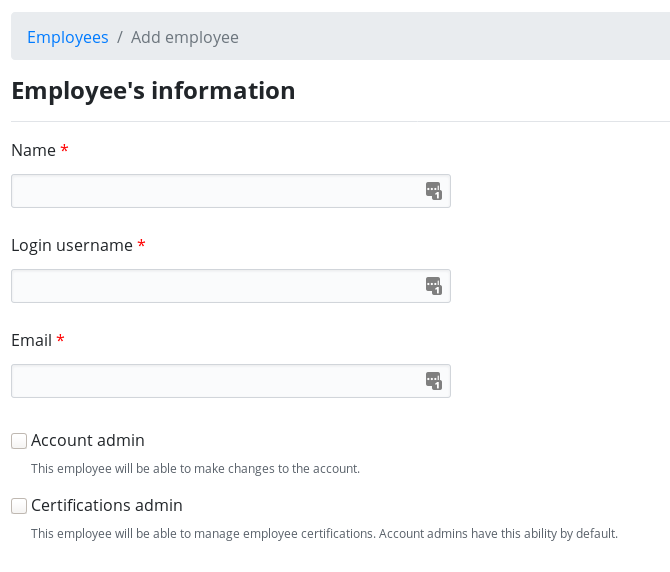
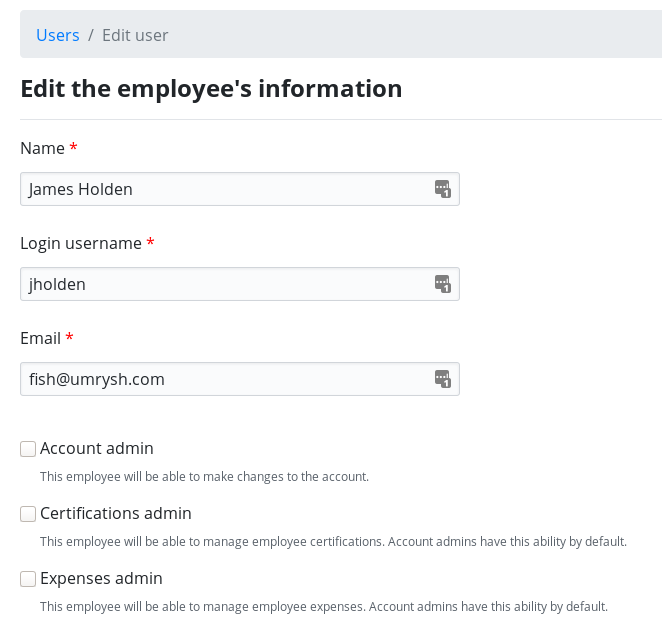
expenses

diff --git a/content/docs/expenses.md b/content/docs/expenses.md
@@ -5,4 +5,133 @@ type: docs
 
 # Expenses
 
-Coming soon.....
+With the expenses module enabled your staff will be able to upload their expenses into Work Tyme from anywhere in the world and your admins and expense admins (see [user types]({{< relref "/docs/user_types.md" >}}) for more information) will be able to instantaneously review and download expense reports. No more bundles of receipts being dropped off on the accountant's desk two weeks after the cut-off date.
+
+## Enable/Disable expense tracking
+
+Expense tracking is disabled by default. To enable or disable expense tracking visit the [company settings]({{< relref "/docs/company_settings.md" >}}) page and adjust the setting.
+
+## Managing company cards
+
+The first step in setting up your expense tracking module is adding in the company's credit cards (or any other type of cards) into your Work Tyme account and assigning them to the individuals who will be using them. This way when an employee is entering an expense they can assign the expense to the list of cards that have been assigned to them.
+
+To manage your company cards you must be an admin or expense admin. Click on the menu option titled "Administration" and then "Company cards".
+
+![Company cards page](/docs/img/company_cards_page.png)
+
+To add a new company card click on the button titled "Add company card" and enter in a description. You can enter anything but we suggest just using the last four digits of the credit card when possible.
+
+
+## Add an expense
+
+There are two ways to add an expense; either by using the [mobile app]({{< relref "/docs/app_expenses.md" >}}) or via the web portal. To see the steps when using the mobile app click [here]({{< relref "/docs/app_expenses.md" >}}). What follows are the steps to add an expense from the web portal.
+
+To add an expense with the web portal first click on the menu item called "Expenses". At the top left of the page you will find a green button called "Add Expense". Click on this button to be taken to the add expense screen.
+
+![Add expense](/docs/img/add_expense.png)
+
+The fields will be slightly different depending on if your account is an Expense Admin (see [user types]({{< relref "/docs/user_types.md" >}}) for more information).
+
+* **Approval Status:** _This field is only shown if you are an Expense admin. It allows you to change the current status of the expense from "new" or "locked"_
+* **Name:** _If you are an Expense Admin you will be able to select any employee in your company. If you are not an Expense Admin this will be locked to your own name_
+* **Card:** _Select from the list of cards that are assigned to you. If you are an Expense Admin you will be able to select any card in the company. This is the card that the expense has been placed. All employees have an option called "Personal Card" for expenses they will need to be reimbursed for_
+* **Type of expense:** _Select from a list of expense types to better classify the expense. This list is not configurable. If you require an option added to the list please [let us know](https://worktyme.ca/#contact)_
+* **Department:** _Select the company [department]({{< relref "/docs/departments.md" >}}) to which this expense was incurred_
+* **Division:** _Select the company [division]({{< relref "/docs/divisions.md" >}}) to which this expense was incurred_
+* **Subdivision:** _Select the company [subdivision]({{< relref "/docs/divisions.md" >}}) to which this expense was incurred_
+
+![Add expense](/docs/img/add_expense_page1.png)
+
+* **Currency:** _Select either "CA" for Canada or "US" for United States._
+* **Date:** _Select the date the expense was incurred_
+* **Supplier:** _Type in the name of the supplier for the purchased product/service_
+* **Description:** _Add a short description about the expense_
+* **Sub total:** _You must either enter a sub-total or a Total for the expense_
+* **Tip:** _If a tip was paid on the expense enter it here_
+* **Taxes:** _Enter any taxes incurred_
+* **Total:** _You must either enter a sub-total or a Total for the expense_
+* **Attach a file:** _Click the entry box to open a file selector window and select a PDF copy of the receipt._
+
+![Add expense](/docs/img/add_expense_page2.png)
+
+Lastly, click on the button titled "Save expense" to save the expense into Work Tyme.
+
+## View expenses
+
+To view expenses with the web portal first click on the menu item called "Expenses". You will be shown a page with a table listing all currently unprocessed expenses. If you are an Expense admin (see [user types]({{< relref "/docs/user_types.md" >}}) for more information) you will see all the expenses in the entire company. If you are not an Expense Admin you will instead be shown just your own uploaded expenses.
+
+![View expense](/docs/img/view_expense_page1.png)
+
+To view expenses that have already been exported by an Expense Admin click on the checkbox titled "Show locked entries" underneath the bottom right corner of the table. Locked entries will be highlighted in red.
+
+## Edit uploaded expenses
+
+To edit an expense with the web portal first click on the menu item called "Expenses". Find the expense in the table by either paging through the table or using the search box. If the expense has already been exported by an Expense Admin you will need to check the box below the right hand side of the table titled "Show locked entries". If you are not an Expense Admin you will only be able to edit unlocked expenses.
+
+To open the expense for editing click on the underlined date in it's row in the table.
+
+![Edit expense](/docs/img/view_expense_page1.png)
+
+The fields will be slightly different depending on if your account is an Expense Admin (see [user types]({{< relref "/docs/user_types.md" >}}) for more information).
+
+* **Approval Status:** _This field is only shown if you are an Expense admin. It allows you to change the current status of the expense from "new" or "locked"_
+* **Last edited by:** _This field is only shown if you are an Expense admin. It shows the name of the last Expense Admin who made a change to this expense_
+* **Editor notes:** _This field is only shown if you are an Expense admin. It allows Expense Admins to leave notes as to what they had to modify the last time they edited the expense_
+* **Name:** _If you are an Expense Admin you will be able to select any employee in your company. If you are not an Expense Admin this will be locked to your own name_
+* **Card:** _Select from the list of cards that are assigned to you. If you are an Expense Admin you will be able to select any card in the company. This is the card that the expense has been placed. All employees have an option called "Personal Card" for expenses they will need to be reimbursed for_
+* **Type of expense:** _Select from a list of expense types to better classify the expense. This list is not configurable. If you require an option added to the list please [let us know](https://worktyme.ca/#contact)_
+* **Department:** _Select the company [department]({{< relref "/docs/departments.md" >}}) to which this expense was incurred_
+* **Division:** _Select the company [division]({{< relref "/docs/divisions.md" >}}) to which this expense was incurred_
+
+![Edit expense](/docs/img/edit_expense_page1.png)
+
+* **Subdivision:** _Select the company [subdivision]({{< relref "/docs/divisions.md" >}}) to which this expense was incurred_
+* **Currency:** _Select either "CA" for Canada or "US" for United States._
+* **Date:** _Select the date the expense was incurred_
+* **Supplier:** _Type in the name of the supplier for the purchased product/service_
+* **Description:** _Add a short description about the expense_
+* **Sub total:** _You must either enter a sub-total or a Total for the expense_
+* **Tip:** _If a tip was paid on the expense enter it here_
+* **Taxes:** _Enter any taxes incurred_
+* **Total:** _You must either enter a sub-total or a Total for the expense_
+
+![Edit expense](/docs/img/edit_expense_page2.png)
+
+* **Replace uploaded file:** _Click the entry box to open a file selector window and select a PDF copy of the receipt. The uploaded document will replace any previously stored documents attached to this expense_
+
+![Edit expense](/docs/img/edit_expense_page3.png)
+
+Lastly, click on the button titled "Save expense" to save the expense into Work Tyme.
+
+## Download expense reports
+
+In order to download expense reports you must either be an admin or an expense admin (see [user types]({{< relref "/docs/user_types.md" >}}) for more information). When you view the expenses page as one of these two types of users there will be a reports section located directly below the expenses table.
+
+![Download expenses](/docs/img/download_expenses.png)
+
+There are a couple options you can select when generation your report:
+
+* **Lock on export:** _If you wish to lock the expenses from being edited by non-admins after you generate this report._
+* **Divisions report:** _Rather then have the downloaded excel files be split based on the company card you instead would like the files split by company divisions. This way giving you a total of all expenses incurred for each division._
+
+Lastly select the data range of expenses you would like to download and click on the "Export the data" button.
+
+Example of a regular expense report:
+
+![Download expenses](/docs/img/expense_report.png)
+
+Example of a Divisions report:
+
+![Download expenses](/docs/img/expense_report_divisions.png)
+
+## Delete an expense
+
+To delete an expense first click on the menu item called "Expenses". Find the expense in the table by either paging through the table or using the search box. If the expense has already been exported by an Expense Admin you will need to check the box below the right hand side of the table titled "Show locked entries". If you are not an Expense Admin you will only be able to delete unlocked expenses.
+
+To open the expense click on the underlined date in it's row in the table.
+
+![Edit expense](/docs/img/view_expense_page1.png)
+
+Once you have the expense opened scroll down to the very bottom of the page to find the delete button. Click on the "Delete Expense" button to remove this expense from your Work Tyme account.
+
+![Delete expenses](/docs/img/delete_expense.png)

diff --git a/content/docs/app_expenses.md b/content/docs/app_expenses.md
@@ -1,0 +1,68 @@
+---
+title: Expenses in the apps
+type: docs
+---
+
+# Expenses in the apps
+
+If you have enabled the [expense tracking]({{< relref "/docs/expenses.md" >}}) module your users will gain access to the ability to upload expenses from within the mobile app.
+
+_**Please note you must have an Internet connection to add an expense with the mobile app**_
+
+The workflow of adding expenses from the Work Tyme mobile app will be different based on whether the logged in user is either a regular employee user or is an "Expenses Only" user (see [user types]({{< relref "/docs/user_types.md" >}}) for more information).
+
+## Regular employees
+
+### Add an expense
+
+When a regular employee opens the mobile app they are presented with the [time slips]({{< relref "/docs/app_time_slips.md" >}}) screen as their home page. To add an expense open the app menu by using the three horizontal lines on the top left of the screen and click on "Add Expense". You will be taken to the add expense screen which looks like the following:
+
+![Add expense in app](/docs/img/add_expense_app.png)
+
+* **Card:** _Select from the list of cards that are assigned to you. If you are an Expense Admin you will be able to select any card in the company. This is the card that the expense has been placed. All employees have an option called "Personal Card" for expenses they will need to be reimbursed for_
+* **Type of expense:** _Select from a list of expense types to better classify the expense. This list is not configurable. If you require an option added to the list please [let us know](https://worktyme.ca/#contact)_
+* **Department:** _Select the company [department]({{< relref "/docs/departments.md" >}}) to which this expense was incurred_
+* **Division:** _Select the company [division]({{< relref "/docs/divisions.md" >}}) to which this expense was incurred_
+* **Subdivision:** _Select the company [subdivision]({{< relref "/docs/divisions.md" >}}) to which this expense was incurred_
+* **Currency:** _Select either "CA" for Canada or "US" for United States._
+* **Date:** _Select the date the expense was incurred_
+* **Supplier:** _Type in the name of the supplier for the purchased product/service_
+* **Description:** _Add a short description about the expense_
+* **Sub total:** _You must either enter a sub-total or a Total for the expense_
+* **Tip:** _If a tip was paid on the expense enter it here_
+* **Taxes:** _Enter any taxes incurred_
+* **Total:** _You must either enter a sub-total or a Total for the expense_
+* **Attach a file:** _Click the "Attach a file" button to open a file selector window and select a PDF copy of the receipt._
+* **Open camera:** _Instead of using the "Attach a file" button you can choose to take a photo of the reciept using your phones camera. Click on this button to open the camera and once you are happy with what you are seeing in the prevew window click on the "Take a photo of the receipt" button to save the image._
+
+_**You are only allowed to take a photo or upload a file. You cannot do both**_
+
+After you have finished adding in all the information click on the “Save” button at the top right to save your expense.
+
+## Expense Only accounts
+
+### Add an expense
+
+When an expense only user opens the mobile app they are presented with the "Add an Expense" screen as their home page which looks like the following:
+
+![Add expense in app](/docs/img/add_expense_only_app.png)
+
+* **Card:** _Select from the list of cards that are assigned to you. This is the card that the expense has been placed. All users have an option called "Personal Card" for expenses they will need to be reimbursed for_
+* **Type of expense:** _Select from a list of expense types to better classify the expense. This list is not configurable. If you require an option added to the list please [let us know](https://worktyme.ca/#contact)_
+* **Department:** _Select the company [department]({{< relref "/docs/departments.md" >}}) to which this expense was incurred_
+* **Division:** _Select the company [division]({{< relref "/docs/divisions.md" >}}) to which this expense was incurred_
+* **Subdivision:** _Select the company [subdivision]({{< relref "/docs/divisions.md" >}}) to which this expense was incurred_
+* **Currency:** _Select either "CA" for Canada or "US" for United States._
+* **Date:** _Select the date the expense was incurred_
+* **Supplier:** _Type in the name of the supplier for the purchased product/service_
+* **Description:** _Add a short description about the expense_
+* **Sub total:** _You must either enter a sub-total or a Total for the expense_
+* **Tip:** _If a tip was paid on the expense enter it here_
+* **Taxes:** _Enter any taxes incurred_
+* **Total:** _You must either enter a sub-total or a Total for the expense_
+* **Attach a file:** _Click the "Attach a file" button to open a file selector window and select a PDF copy of the receipt._
+* **Open camera:** _Instead of using the "Attach a file" button you can choose to take a photo of the reciept using your phones camera. Click on this button to open the camera and once you are happy with what you are seeing in the prevew window click on the "Take a photo of the receipt" button to save the image._
+
+_**You are only allowed to take a photo or upload a file. You cannot do both**_
+
+After you have finished adding in all the information click on the “Save” button at the top right to save your expense.

diff --git a/content/docs/user_types.md b/content/docs/user_types.md
@@ -10,8 +10,15 @@ In Work Tyme there are two main types of users:
 * **Admin:** _An administrator has full control of a company's entire Work Tyme account. You can have as many admins as you would like. To make an employee an admin you will need to be an admin yourself and then visit the [advanced settings]({{< relref "/docs/employees.md" >}}#edit-an-employee) for their account._
 * **Regular user:** _If an employee's account is not an admin they are what we refer to as a regular user account._
 
+
 Regular users can then be given additional permissions:
 
 * **Manager:** _If a regular user account is the direct supervisor for any other employee account that person is known as a "manager". Their account will have a menu item called [time slips]({{< relref "/docs/time_slips.md" >}}) where they can view the time slips that have been entered by the employees they are responsible for_
 * **Approver:** _If a regular user account is responsible for [approving]({{< relref "/docs/approvers.md" >}}) any time slips that person is known as an "Approver". Their account will have a menu item called [time slips]({{< relref "/docs/time_slips.md" >}}) where they can view the time slips that have been entered for any [divisions]({{< relref "/docs/divisions.md" >}}) they are responsible for approving_
-* **Certifications admin:** _A certifications admin is a regular user account that has been given administrative rights to the [certification]({{< relref "/docs/certifications.md" >}}) module for the company. They will have an additional menu option titled "Certifications" where they can upload and assign certifications to any employee in the company. To make an employee an certifications admin you will need to be an admin yourself and then visit the [advanced settings]({{< relref "/docs/employees.md" >}}#edit-an-employee) for their account._
+* **Certifications admin:** _A certifications admin is a regular user account that has been given administrative rights to the [certification]({{< relref "/docs/certifications.md" >}}) module for the company. They will have an additional menu option titled "Certifications" where they can upload and assign certifications to any employee in the company. To make an employee an certifications admin you will need to be logged in as an admin and then visit the [advanced settings]({{< relref "/docs/employees.md" >}}#edit-an-employee) for their account._
+* **Expenses admin:** _An expenses admin is a regular user account that has been given administrative rights to the [expenses]({{< relref "/docs/expenses.md" >}}) module for the company. They will be able to manage the company cards as well as manage all expenses uploaded to your company. They will also be able to download expense reports and lock expenses from being edited by regular users. To make an employee an expenses admin you will need to be logged in as an admin and then visit the [advanced settings]({{< relref "/docs/employees.md" >}}#edit-an-employee) for their account._
+
+If you have enabled the [expense tracking]({{< relref "/docs/expenses.md" >}}) module you will have access to two more types of user accounts:
+
+* **Expenses Only user:** _This type of user can only add expenses to your Work Tyme account. They will not appear in the [organization chart]({{< relref "/docs/org_chart.md" >}}) or in the [staff directory]({{< relref "/docs/directory.md" >}}) when viewed by a Regular user. An example for this type of account would be your company's travel agent._
+* **Auditor:** _This is a sub-type of the Expenses Only user. They are able to view all expenses in the company but will still only be allowed to edit their own expenses. An example use case would be during a financial audit you may need to create an Auditor account for the auditor so they can review your expenses. Once the audit is finished, you would delete their account._

diff --git a/content/docs/employees.md b/content/docs/employees.md
@@ -22,6 +22,7 @@ The first section is for the basic account information:
 * **Email:** _Work Tyme utilizes an employee's email for forgot password links, [time-off]({{< relref "/docs/time_off.md" >}}) requests, login, etc_
 * **Account admin:** _If an employee is an account admin they have full control of your entire Work Tyme account. Usually HR managers would be the only admins for your account_
 * **Certifications admin:** _Work Tyme has a [certifications]({{< relref "/docs/certifications.md" >}}) module that allows you to upload PDFs of training certifications and assign them to the specific employees. Usually this is not handled directly by HR but by the Health & Safety team members._
+* **Expenses admin:** _An expenses admin is a regular user account that has been given administrative rights to the [expenses]({{< relref "/docs/expenses.md" >}}) module for the company. They will be able to manage the company cards as well as manage all expenses uploaded to your company. They will also be able to download expense reports and lock expenses from being edited by regular users._
 
 ![Employee information](/docs/img/add_employee_info.png)
 
@@ -76,6 +77,7 @@ The first section is for the basic account information:
 * **Email:** _Work Tyme utilizes an employee's email for forgot password links, [time-off]({{< relref "/docs/time_off.md" >}}) requests, login, etc_
 * **Account admin:** _If an employee is an account admin they have full control of your entire Work Tyme account. Usually HR managers would be the only admins for your account_
 * **Certifications admin:** _Work Tyme has a [certifications]({{< relref "/docs/certifications.md" >}}) module that allows you to upload PDFs of training certifications and assign them to the specific employees. Usually this is not handled directly by HR but by the Health & Safety team members._
+* **Expenses admin:** _An expenses admin is a regular user account that has been given administrative rights to the [expenses]({{< relref "/docs/expenses.md" >}}) module for the company. They will be able to manage the company cards as well as manage all expenses uploaded to your company. They will also be able to download expense reports and lock expenses from being edited by regular users._
 
 ![Employee information](/docs/img/add_employee_info.png)
 

diff --git a/content/docs/company_settings.md b/content/docs/company_settings.md
@@ -15,7 +15,7 @@ The company settings page can be thought of as way to set some general settings 
 * **Allowed sick days per year:** _The number of annual sick days your employees are entitled to. They will still be able to request more that this amount in a year. It is up to their manager if they wish to approve/deny additional sick days_
 * **Enable job costing:** _If you wish to make use of the built-in [job costing]({{< relref "/docs/job_costing.md" >}}) module check this box_
 * **Enable equipment usage tracking:** _If you wish to make use of the built-in [equipment usage tracking]({{< relref "/docs/equipment_usage_tracking.md" >}}) module check this box_
-* **Enable employee expense tracking:** _Coming soon..._
+* **Enable employee expense tracking:** _If you wish to make use of the built-in [expense tracking]({{< relref "/docs/expenses.md" >}}) module check this box_
 * **Enable happy birthday emails:** _Since Work Tyme has all of your employee's birthdays we thought we could give you the option if you would like us to send a birthday greeting email to them on their birthdays. All the admins on your account will also be BBC'd on these emails so they can get a reminder when it is someone's birthday :)_
 * **Enable the sending of daily time-off digest emails to supervisors:** _When enabled Work Tyme will send out a digest every morning detailing any time off that is booked for the day. The alerts are sent to the employee's supervisor as well as anybody who has time off alerts enabled for the particular employee's department ( see the [advanced settings]({{< relref "/docs/employees.md" >}}#edit-an-employee) page for more information)._
 * **Enable the sending of daily work anniversary emails to admins:** _When enabled Work Tyme will send out a digest every morning detailing any work anniversaries that are occurring that day (3 month, 5 month, 6 month, 1 year, 5 year, 10 year, and every 5 years thereafter)._

diff --git a/content/menu/index.md b/content/menu/index.md
@@ -24,6 +24,7 @@ headless: true
   - [Certifications]({{< relref "/docs/certifications.md" >}})
 - [**Job costing**]({{< relref "/docs/job_costing.md" >}})
 - [**Mobile apps**]({{< relref "/docs/apps.md" >}})
+  - [Expenses]({{< relref "/docs/app_expenses.md" >}})
   - [Time off]({{< relref "/docs/app_time_off.md" >}})
   - [Time slips]({{< relref "/docs/app_time_slips.md" >}})
 - [**Org chart**]({{< relref "/docs/org_chart.md" >}})
